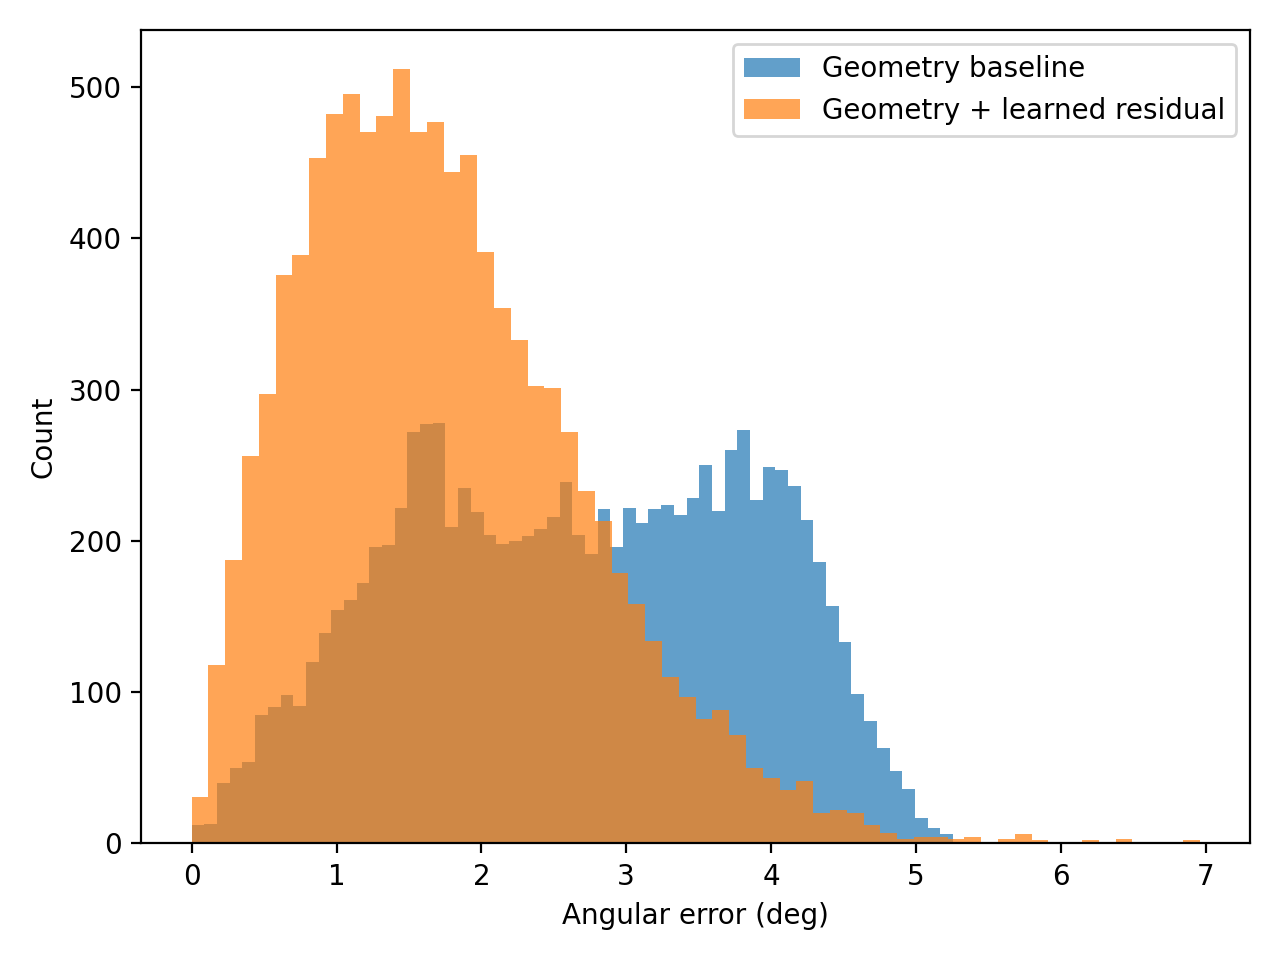
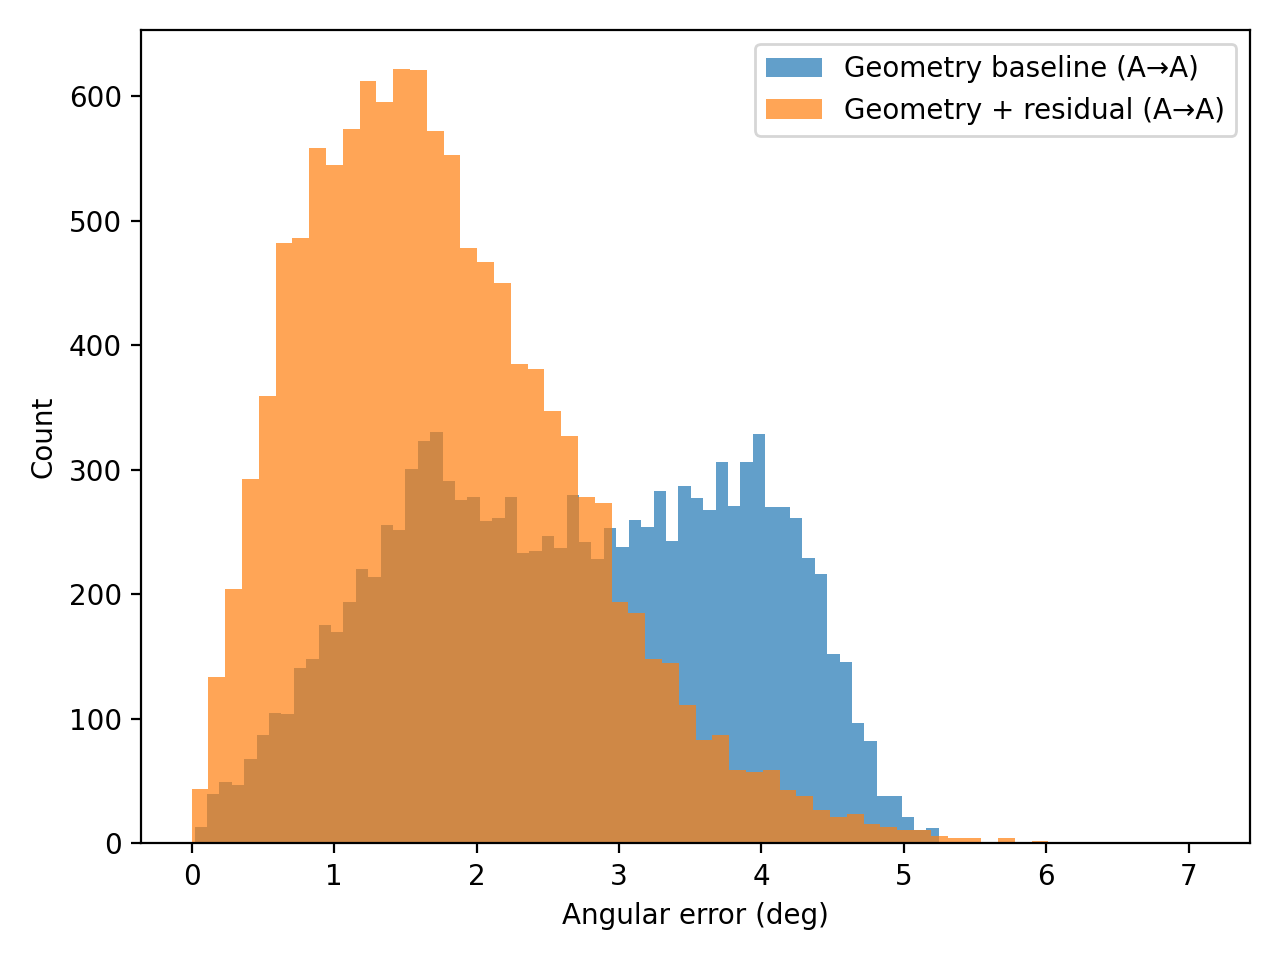
Add explicit domain shift experiment (A→A, A→B, B→B) and plot

diff --git a/src/learning/train.py b/src/learning/train.py
@@ -8,52 +8,86 @@ from src.geometry.camera import yaw_pitch_to_unit, angular_error_deg
 from src.geometry.gaze_model import geometry_baseline
 from src.learning.model import ResidualMLP
 
-def make_synth(n: int, seed: int = 42):
+
+def make_synth(n: int, seed: int, domain: str):
+    """
+    Synthetic generator with explicit domain parameters to simulate domain shift.
+    Domain A vs B differ in systematic bias and observation noise (proxy for camera/subject conditions).
+    """
     rng = np.random.default_rng(seed)
 
-    # Head pose in radians (small-ish range)
+    # Head pose in radians
     head_yaw = rng.uniform(-0.6, 0.6, size=n)
     head_pitch = rng.uniform(-0.4, 0.4, size=n)
 
-    # Eye relative angles (smaller)
+    # Eye relative angles
     eye_yaw = rng.uniform(-0.4, 0.4, size=n)
     eye_pitch = rng.uniform(-0.25, 0.25, size=n)
 
-    # "True" gaze: geometry baseline + non-linear bias (domain effect)
+    # Domain-specific bias + noise
+    if domain == "A":
+        # mild bias, moderate noise
+        bias_yaw = 0.10 * np.sin(1.5 * head_yaw) + 0.04 * head_pitch
+        bias_pitch = 0.06 * np.sin(1.2 * head_pitch) - 0.03 * head_yaw
+        noise_yaw = 0.03
+        noise_pitch = 0.02
+    elif domain == "B":
+        # different bias shape + higher noise
+        bias_yaw = 0.14 * np.sin(1.1 * head_yaw + 0.2) + 0.02 * head_pitch + 0.03
+        bias_pitch = 0.09 * np.sin(1.7 * head_pitch - 0.1) - 0.02 * head_yaw - 0.02
+        noise_yaw = 0.05
+        noise_pitch = 0.035
+    else:
+        raise ValueError("domain must be 'A' or 'B'")
+
+    # Baseline (geometry-inspired)
     base = geometry_baseline(head_yaw, head_pitch, eye_yaw, eye_pitch)
 
-    # Create a synthetic "domain bias": e.g., camera/subject-specific offset depends on head yaw/pitch
-    bias_yaw = 0.10 * np.sin(1.5 * head_yaw) + 0.04 * head_pitch
-    bias_pitch = 0.06 * np.sin(1.2 * head_pitch) - 0.03 * head_yaw
+    # "True" gaze = baseline + systematic bias (domain effect)
+    true = yaw_pitch_to_unit(
+        head_yaw + eye_yaw + bias_yaw,
+        head_pitch + eye_pitch + bias_pitch
+    )
 
-    true = yaw_pitch_to_unit(head_yaw + eye_yaw + bias_yaw, head_pitch + eye_pitch + bias_pitch)
-
-    # Add observation noise to "measured" eye angles (as if landmarks/noise)
-    eye_yaw_obs = eye_yaw + rng.normal(0, 0.03, size=n)
-    eye_pitch_obs = eye_pitch + rng.normal(0, 0.02, size=n)
+    # Observed eye angles (noisy measurements)
+    eye_yaw_obs = eye_yaw + rng.normal(0, noise_yaw, size=n)
+    eye_pitch_obs = eye_pitch + rng.normal(0, noise_pitch, size=n)
 
     x = np.stack([head_yaw, head_pitch, eye_yaw_obs, eye_pitch_obs], axis=-1).astype(np.float32)
 
-    # Regression target: residual in angle space to correct baseline
-    # residual = (true angles) - (baseline angles)
-    # Here we use the known synthetic bias as target, but in real data we'd learn it from supervision.
+    # Learning target: residual correction (delta yaw/pitch)
     y = np.stack([bias_yaw, bias_pitch], axis=-1).astype(np.float32)
+
     return x, y, base.astype(np.float32), true.astype(np.float32)
 
-def eval_deg(base_vec, pred_vec, true_vec):
-    b = angular_error_deg(base_vec, true_vec).mean()
-    p = angular_error_deg(pred_vec, true_vec).mean()
-    return float(b), float(p)
 
-def main():
-    os.makedirs("figures", exist_ok=True)
-    torch.manual_seed(0)
-    np.random.seed(0)
+def mean_ang_err_deg(pred_vec: np.ndarray, true_vec: np.ndarray) -> float:
+    return float(angular_error_deg(pred_vec, true_vec).mean())
 
-    n_train, n_test = 50000, 10000
-    x_tr, y_tr, base_tr, true_tr = make_synth(n_train, seed=1)
-    x_te, y_te, base_te, true_te = make_synth(n_test, seed=2)
 
+def eval_bundle(x: np.ndarray, base_vec: np.ndarray, true_vec: np.ndarray, model: ResidualMLP):
+    """
+    Returns mean error for:
+    - geometry baseline
+    - geometry + learned residual
+    """
+    base_err = mean_ang_err_deg(base_vec, true_vec)
+
+    model.eval()
+    with torch.no_grad():
+        xt = torch.from_numpy(x)
+        res = model(xt).numpy()
+
+    head_yaw, head_pitch, eye_yaw_obs, eye_pitch_obs = x.T
+    pred_vec = yaw_pitch_to_unit(
+        head_yaw + eye_yaw_obs + res[:, 0],
+        head_pitch + eye_pitch_obs + res[:, 1],
+    )
+    pred_err = mean_ang_err_deg(pred_vec, true_vec)
+    return base_err, pred_err
+
+
+def train_model(x_tr: np.ndarray, y_tr: np.ndarray, epochs: int = 6) -> ResidualMLP:
     ds = TensorDataset(torch.from_numpy(x_tr), torch.from_numpy(y_tr))
     dl = DataLoader(ds, batch_size=512, shuffle=True, num_workers=0)
 
@@ -62,8 +96,8 @@ def main():
     loss_fn = torch.nn.SmoothL1Loss()
 
     model.train()
-    for epoch in range(5):
-        pbar = tqdm(dl, desc=f"epoch {epoch+1}/5")
+    for epoch in range(epochs):
+        pbar = tqdm(dl, desc=f"epoch {epoch+1}/{epochs}")
         for xb, yb in pbar:
             pred = model(xb)
             loss = loss_fn(pred, yb)
@@ -71,38 +105,92 @@ def main():
             loss.backward()
             opt.step()
             pbar.set_postfix(loss=float(loss))
+    return model
 
-    model.eval()
-    with torch.no_grad():
-        x = torch.from_numpy(x_te)
-        res = model(x).numpy()
-        head_yaw, head_pitch, eye_yaw_obs, eye_pitch_obs = x_te.T
-        pred_vec = yaw_pitch_to_unit(head_yaw + eye_yaw_obs + res[:, 0],
-                                     head_pitch + eye_pitch_obs + res[:, 1])
 
-    base_mean, pred_mean = eval_deg(base_te, pred_vec, true_te)
-    print(f"Mean angular error (deg) - geometry baseline: {base_mean:.3f}")
-    print(f"Mean angular error (deg) - geometry + learned residual: {pred_mean:.3f}")
-
-    # Save a tiny text summary for reproducibility
-    with open("figures/results.txt", "w", encoding="utf-8") as f:
-        f.write(f"baseline_deg={base_mean:.6f}\n")
-        f.write(f"geom_plus_residual_deg={pred_mean:.6f}\n")
-
-    # Quick plot: distribution comparison
+def plot_domain_shift(results, out_path: str):
+    """
+    results: dict with keys like:
+      "A->A": (base_err, pred_err), etc.
+    """
     import matplotlib.pyplot as plt
-    base_err = angular_error_deg(base_te, true_te)
-    pred_err = angular_error_deg(pred_vec, true_te)
+
+    labels = list(results.keys())
+    base = [results[k][0] for k in labels]
+    pred = [results[k][1] for k in labels]
+
+    x = np.arange(len(labels))
+    w = 0.35
 
     plt.figure()
-    plt.hist(base_err, bins=60, alpha=0.7, label="Geometry baseline")
-    plt.hist(pred_err, bins=60, alpha=0.7, label="Geometry + learned residual")
+    plt.bar(x - w/2, base, width=w, label="Geometry baseline")
+    plt.bar(x + w/2, pred, width=w, label="Geometry + learned residual")
+    plt.xticks(x, labels)
+    plt.ylabel("Mean angular error (deg)")
+    plt.title("Domain shift evaluation (synthetic)")
+    plt.legend()
+    plt.tight_layout()
+    plt.savefig(out_path, dpi=200)
+    plt.close()
+
+
+def main():
+    os.makedirs("figures", exist_ok=True)
+    torch.manual_seed(0)
+    np.random.seed(0)
+
+    # Train on Domain A, evaluate on A and B
+    n_train, n_test = 60000, 12000
+
+    xA_tr, yA_tr, baseA_tr, trueA_tr = make_synth(n_train, seed=1, domain="A")
+    xA_te, yA_te, baseA_te, trueA_te = make_synth(n_test, seed=2, domain="A")
+    xB_te, yB_te, baseB_te, trueB_te = make_synth(n_test, seed=3, domain="B")
+
+    modelA = train_model(xA_tr, yA_tr, epochs=6)
+
+    res = {}
+    res["A→A"] = eval_bundle(xA_te, baseA_te, trueA_te, modelA)
+    res["A→B"] = eval_bundle(xB_te, baseB_te, trueB_te, modelA)
+
+    # Optional: also train on B (to show within-domain)
+    xB_tr, yB_tr, baseB_tr, trueB_tr = make_synth(n_train, seed=4, domain="B")
+    modelB = train_model(xB_tr, yB_tr, epochs=6)
+    res["B→B"] = eval_bundle(xB_te, baseB_te, trueB_te, modelB)
+
+    # Write results
+    with open("figures/results.txt", "w", encoding="utf-8") as f:
+        for k, (b, p) in res.items():
+            f.write(f"{k}_baseline_deg={b:.6f}\n")
+            f.write(f"{k}_geom_plus_residual_deg={p:.6f}\n")
+
+    # Keep the previous histogram for A→A (nice distribution view)
+    base_err = angular_error_deg(baseA_te, trueA_te)
+    modelA.eval()
+    with torch.no_grad():
+        xt = torch.from_numpy(xA_te)
+        r = modelA(xt).numpy()
+    head_yaw, head_pitch, eye_yaw_obs, eye_pitch_obs = xA_te.T
+    predA = yaw_pitch_to_unit(head_yaw + eye_yaw_obs + r[:, 0], head_pitch + eye_pitch_obs + r[:, 1])
+    pred_err = angular_error_deg(predA, trueA_te)
+
+    import matplotlib.pyplot as plt
+    plt.figure()
+    plt.hist(base_err, bins=60, alpha=0.7, label="Geometry baseline (A→A)")
+    plt.hist(pred_err, bins=60, alpha=0.7, label="Geometry + residual (A→A)")
     plt.xlabel("Angular error (deg)")
     plt.ylabel("Count")
     plt.legend()
     plt.tight_layout()
     plt.savefig("figures/error_hist.png", dpi=200)
     plt.close()
+
+    # New domain shift plot
+    plot_domain_shift(res, "figures/domain_shift.png")
+
+    print("Domain shift results:")
+    for k, (b, p) in res.items():
+        print(f"{k}: baseline={b:.3f} deg, geom+residual={p:.3f} deg")
+
 
 if __name__ == "__main__":
     main()

diff --git a/README.md b/README.md
@@ -28,6 +28,12 @@ residual can correct systematic biases.
 
 ![Error histogram](figures/error_hist.png)
 
+### Domain shift (synthetic)
+We simulate domain shift by changing systematic bias and observation noise between **Domain A** and **Domain B**.
+This mirrors common real-world issues (different cameras, subjects, illumination, annotation noise).
+
+![Domain shift](figures/domain_shift.png)
+
 ## Synthetic-to-real training pipeline
 The figure below summarizes a practical way to use synthetic data: **pretrain → adapt → evaluate**.
 
@@ -60,3 +66,7 @@ limited and precision is critical.
 **Pros:** scalable, cheap labels, perfect ground truth, controllable scenarios.  
 **Cons:** domain gap, unrealistic behavior/appearance, risk of learning artifacts.  
 **Best use:** pretrain/augment + domain randomization + fine-tune on real data + continuous real-world validation.
+
+## Portfolio note
+This repository is a compact research prototype created as part of my PhD application portfolio.
+It demonstrates geometry-aware inductive bias, clean experimental structure, and synthetic-to-real reasoning.
